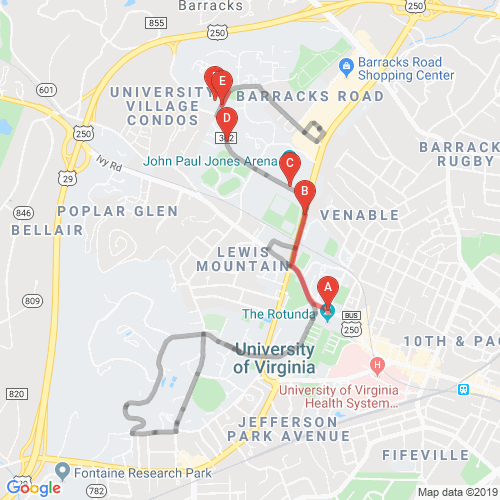
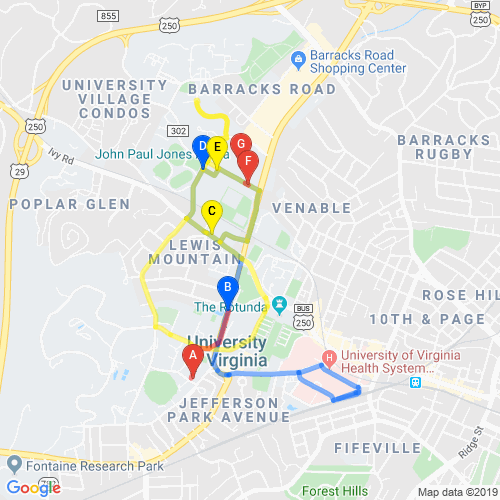
Added marker and path coloring, along with automatic opening of image file

diff --git a/main.py b/main.py
@@ -5,7 +5,8 @@ import time as tm
 import sys
 import route_listing
 from tkinter import *
-from PIL import ImageTk,Image 
+from PIL import ImageTk,Image
+import os
 
 SRC_ID = "SRC"
 DST_ID = "DST"
@@ -13,6 +14,7 @@ DST_ID = "DST"
 host = "transloc-api-1-2.p.rapidapi.com"
 key = "5fa48323f4mshca893848a7efd53p1bb117jsnd6adf17f2c76"
 agencies = "347" # UVA
+gui_path_display = ""
 
 # Routes we include by default:
 # Northline               "4013584"
@@ -315,7 +317,7 @@ class graph:
       
 g = graph()
 
-def display_routes(unique_routes, unique_stops, src_polyline, dst_polyline, image_file):
+def display_routes(path, unique_routes, unique_stops, src_polyline, dst_polyline, image_file):
   with open("GoogleMapsAPIKey.txt", "r") as fp:
     google_key = fp.readline()
   
@@ -325,45 +327,60 @@ def display_routes(unique_routes, unique_stops, src_polyline, dst_polyline, imag
   
   transloc_key = "5fa48323f4mshca893848a7efd53p1bb117jsnd6adf17f2c76"
   headers = {"x-rapidapi-host": host, "x-rapidapi-key": transloc_key}
-  payload = {"agencies": "347"}
+  transloc_payload = {"agencies": "347"}
   
-  segments_list = []
-  for unique_route in unique_routes:
-    payload["routes"] = unique_route
-  
-    segments = requests.get(segments_url, headers=headers, params=payload)
-    segments_json = json.loads(segments.text)
-  
-    segments_list.append([])
-    for segment_id in segments_json["data"]:
-      segments_list[-1].append(segments_json["data"][segment_id])
-      
-  #payload = {"size": size, "key": google_key, "path":"enc:}zdgFtud~MwBvE"|"enc:yyegFz~d~M_@[_Ak@"}
-  payload = [("size", size), ("key", google_key)]
+  google_payload = [("size", size), ("key", google_key)]
   colors = ["black", "brown", "green", "purple", "yellow", "blue", "gray", "orange"]
   color_index = 0
   
-  for route_poly in segments_list:
-    for segment in route_poly:
-      payload.append(("path", "color:" + colors[color_index] + "|enc:" + segment))
-    color_index += 1
+  route_color = {"4013576": "0x0066ff", "4013580": "0x00aeef", "4013582": "0xed1c24",
+                 "4013584": "0xf59cb0", "4013586": "0xfff200", "4013590": "0xa681ba",
+                 "4013594": "0x9e1f63", "4013696": "0x714294", "4013698": "0xdc9145",
+                 "4013700": "0xf4dc59"}
+  
+  for unique_route in unique_routes:
+    segments_list = []
+    transloc_payload["routes"] = unique_route
+  
+    segments = requests.get(segments_url, headers=headers, params=transloc_payload)
+    segments_json = json.loads(segments.text)
+  
+    for segment_id in segments_json["data"]:
+      segments_list.append(segments_json["data"][segment_id])
+      
+    for route_poly in segments_list:
+      google_payload.append(("path", "color:" + route_color[unique_route] + "|enc:" + route_poly))
   
   lat_lons = []
+  print("Path: " + str(path))
   for unique_stop in unique_stops:
-    lat_lons.append(g.adj_list[unique_stop]["location"])
+    if unique_stop == SRC_ID or unique_stop == DST_ID:
+      color = 'red'
+    else:
+      print("Unique stop: " + unique_stop)
+      # Find color for unique stop
+      for (stop, route) in path[1:-1]:
+        print("Checking stop " + stop)
+        if stop == unique_stop:
+          if route == "walk":
+            color = 'red'
+          else:
+            color = route_color[route]
+    
+    lat_lons.append((g.adj_list[unique_stop]["location"], color))
     
   current_label = 'A'
   for lat_lon in lat_lons:
-    payload.append(("markers", "size:mid|label:" + current_label + "|" + lat_lon))
+    google_payload.append(("markers", "size:mid|label:" + current_label + "|color:" + lat_lon[1] + "|" + lat_lon[0]))
     current_label = chr(ord(current_label) + 1)
   
   # Add source to first stop polyline
-  payload.append(("path", "color:red|enc:" + src_polyline))
+  google_payload.append(("path", "color:red|enc:" + src_polyline))
   
   # Add destination to last stop polyline
-  payload.append(("path", "color:red|enc:" + dst_polyline))
+  google_payload.append(("path", "color:red|enc:" + dst_polyline))
   
-  r = requests.get(static_maps_url, params=payload)
+  r = requests.get(static_maps_url, params=google_payload)
   
   with open(image_file, "wb") as fp:
     fp.write(r.content)
@@ -447,7 +464,7 @@ def run_program():
     r = requests.get(directions_url, params=payload)
     dst_json = json.loads(r.text)
     
-    display_routes(unique_routes, unique_stops, src_json["routes"][0]["overview_polyline"]["points"], dst_json["routes"][0]["overview_polyline"]["points"], "final_output.png")
+    display_routes(path, unique_routes, unique_stops, src_json["routes"][0]["overview_polyline"]["points"], dst_json["routes"][0]["overview_polyline"]["points"], "final_output.png")
     
   elif operating_condition == "SAVED":
     (path, time) = g.dijkstra(saved_arrival_estimates[1])
@@ -480,19 +497,12 @@ def run_program():
     r = requests.get(directions_url, params=payload)
     dst_json = json.loads(r.text)
     
-    display_routes(unique_routes, unique_stops, src_json["routes"][0]["overview_polyline"]["points"], dst_json["routes"][0]["overview_polyline"]["points"], "final_output.png")
-
-#    m2 = Tk()
-#    canvas = Canvas(m2, width = 1000, height = 1000)
-#    canvas.pack()
-#    img = ImageTk.PhotoImage(file="final_output.png")
-#    canvas.create_image(0,0, anchor=NW, image=img)
-#    m2.mainloop()
+    display_routes(path, unique_routes, unique_stops, src_json["routes"][0]["overview_polyline"]["points"], dst_json["routes"][0]["overview_polyline"]["points"], "final_output.png")
+    
+    os.system("final_output.png")
     
 if __name__ == "__main__":
   m = Tk()
-  #w = Canvas(m, width=500, height=500)
-  #w.pack()
   
   Label(m, text="Source").grid(row=0)
   Label(m, text="Destination").grid(row=1)
@@ -504,7 +514,7 @@ if __name__ == "__main__":
   e2.grid(row=1, column=1)
   
   Button(m, 
-        text='Go', command=run_program).grid(row=3, column=0, sticky=W, pady=4)
+        text='Find Route', command=run_program).grid(row=2, column=0, sticky=W, pady=4)
   
   
   m.mainloop()
